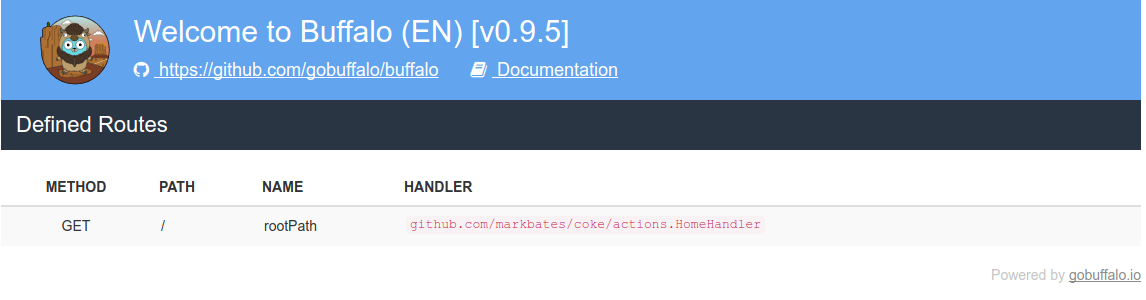
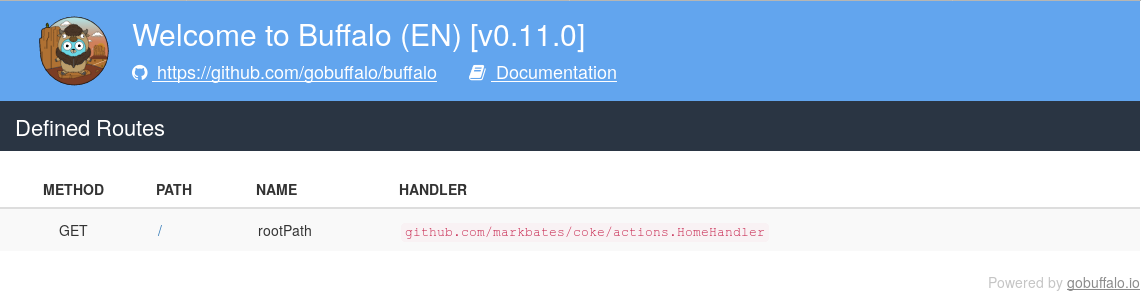
Some fixes, update Buffalo screenshots & traces to v0.11.0

Changed region(s): [[0.0, 0.0, 1.0, 0.5117], [0.0, 0.602, 1.0, 0.8127], [0.8589, 0.903, 1.0, 0.9933]]

diff --git a/templates/docs/overview.html b/templates/docs/overview.html
@@ -100,7 +100,7 @@ Use Buffalo at work? Ask your manager or marketing team if they’d help <a href
       Deep integration with <a href="https://github.com/markbates/pop" target="_blank">pop</a> provides a simple way to handle database and common related tasks.
     </p>
     <p>
-      Supported databases: MySQL/ MariaDB, PostgreSQL, SQLite.
+      Supported databases: MySQL/ MariaDB, PostgreSQL, CockroachDB, SQLite.
     </p>
   </div>
   <div class="feature">

diff --git a/templates/docs/overview.fr.html b/templates/docs/overview.fr.html
@@ -99,7 +99,7 @@
       Une intégration forte avec <a href="https://github.com/markbates/pop" target="_blank">pop</a> permet de gérer les bases de données simplement, ainsi que les tâches courantes associées.
     </p>
     <p>
-      Bases de données supportées&nbsp;: MySQL/ MariaDB, PostgreSQL, SQLite.
+      Bases de données supportées&nbsp;: MySQL/ MariaDB, PostgreSQL, CockroachDB, SQLite.
     </p>
   </div>
   <div class="feature">

diff --git a/assets/css/_theme.scss b/assets/css/_theme.scss
@@ -2859,11 +2859,16 @@ div.prism-show-language>div.prism-show-language-label {
   }
 }
 
-figure img {
-  max-width: 100%;
-  height: auto;
-  display: block;
-  margin: 0 auto
+figure
+{
+  margin: 1em 40px;
+  
+  img {
+    max-width: 100%;
+    height: auto;
+    display: block;
+    margin: 0 auto
+  }
 }
 
 figcaption {

diff --git a/actions/render.go b/actions/render.go
@@ -21,8 +21,11 @@ func init() {
 			"h1":    helpers.H1,
 			"title": helpers.SectionTitle,
 			"note":  helpers.Note,
-			"sinceVersion": func(version string) template.HTML {
-				return template.HTML(fmt.Sprintf(sinceVersion, version))
+			"sinceVersion": func(version string, help plush.HelperContext) (template.HTML, error) {
+				ctx := help.Context.New()
+				ctx.Set("version", version)
+				s, err := plush.Render(sinceVersion, ctx)
+				return template.HTML(s), err
 			},
 			"vimeo": func(code string) template.HTML {
 				return template.HTML(fmt.Sprintf(vimeo, code))
@@ -52,6 +55,6 @@ const vimeo = `<div class="video">
 <iframe src="https://player.vimeo.com/video/%s?portrait=0" width="640" height="360" frameborder="0" webkitallowfullscreen mozallowfullscreen allowfullscreen></iframe>
 </div>`
 
-const sinceVersion = `<span class="since-version">since <strong>v%s</strong></span>`
+const sinceVersion = `<span class="since-version"><%= raw(t("helpers.since", {"version": version})) %></span>`
 
 const githubRelease = `<a href="https://github.com/gobuffalo/buffalo/releases/tag/%s" target="_blank" rel="noopener noreferrer">releases/tag/%s</a>`

diff --git a/templates/docs/new-project/_new.md b/templates/docs/new-project/_new.md
@@ -2,46 +2,61 @@
 $ buffalo new coke
 Buffalo version <%= version %>
 
---> go get -u golang.org/x/tools/cmd/goimports
---> go get -u github.com/golang/dep/cmd/dep
---> go get -u github.com/motemen/gore
---> /Users/markbates/Dropbox/development/gocode/src/github.com/markbates/coke/README.md
---> /Users/markbates/Dropbox/development/gocode/src/github.com/markbates/coke/actions/actions_test.go
---> /Users/markbates/Dropbox/development/gocode/src/github.com/markbates/coke/actions/app.go
---> /Users/markbates/Dropbox/development/gocode/src/github.com/markbates/coke/actions/home.go
---> /Users/markbates/Dropbox/development/gocode/src/github.com/markbates/coke/actions/home_test.go
---> /Users/markbates/Dropbox/development/gocode/src/github.com/markbates/coke/actions/render.go
---> /Users/markbates/Dropbox/development/gocode/src/github.com/markbates/coke/.codeclimate.yml
---> /Users/markbates/Dropbox/development/gocode/src/github.com/markbates/coke/.gitignore
---> /Users/markbates/Dropbox/development/gocode/src/github.com/markbates/coke/grifts/init.go
---> /Users/markbates/Dropbox/development/gocode/src/github.com/markbates/coke/locales/all.en-us.yaml
---> /Users/markbates/Dropbox/development/gocode/src/github.com/markbates/coke/main.go
---> /Users/markbates/Dropbox/development/gocode/src/github.com/markbates/coke/templates/_flash.html
---> /Users/markbates/Dropbox/development/gocode/src/github.com/markbates/coke/templates/application.html
---> /Users/markbates/Dropbox/development/gocode/src/github.com/markbates/coke/templates/index.html
---> /Users/markbates/Dropbox/development/gocode/src/github.com/markbates/coke/.buffalo.dev.yml
---> /Users/markbates/Dropbox/development/gocode/src/github.com/markbates/coke/assets/images/logo.svg
---> /Users/markbates/Dropbox/development/gocode/src/github.com/markbates/coke/assets/css/application.scss
---> /Users/markbates/Dropbox/development/gocode/src/github.com/markbates/coke/assets/js/application.js
---> /Users/markbates/Dropbox/development/gocode/src/github.com/markbates/coke/.babelrc
---> /Users/markbates/Dropbox/development/gocode/src/github.com/markbates/coke/public/assets/.gitignore
---> /Users/markbates/Dropbox/development/gocode/src/github.com/markbates/coke/webpack.config.js
---> yarn init --no-progress -y
---> /Users/markbates/Dropbox/development/gocode/src/github.com/markbates/coke/models/models.go
---> /Users/markbates/Dropbox/development/gocode/src/github.com/markbates/coke/models/models_test.go
---> /Users/markbates/Dropbox/development/gocode/src/github.com/markbates/coke/grifts/db.go
---> go get github.com/markbates/pop/...
---> database.yml
---> /Users/markbates/Dropbox/development/gocode/src/github.com/markbates/coke/Dockerfile
---> /Users/markbates/Dropbox/development/gocode/src/github.com/markbates/coke/.dockerignore
---> go get -t ./...
---> git init
---> git add .
---> git commit -m Initial Commit
-Congratulations! Your application, coke, has been successfully built!
+      create  .buffalo.dev.yml
+      create  assets/images/logo.svg
+      create  assets/css/application.scss
+      create  assets/images/favicon.ico
+      create  assets/js/application.js
+      create  .babelrc
+      create  package.json
+      create  public/assets/.keep
+      create  webpack.config.js
+         run  yarn install --no-progress --save
+yarn install v0.27.5
+info No lockfile found.
+[1/4] Resolving packages...
+[2/4] Fetching packages...
+[3/4] Linking dependencies...
+[4/4] Building fresh packages...
+success Saved lockfile.
+Done in 11.71s.
+      create  models/models.go
+      create  models/models_test.go
+      create  grifts/db.go
+         run  go get github.com/markbates/pop/...
+      create  ./database.yml
+         run  goimports -w coke/grifts/db.go coke/models/models.go coke/models/models_test.go
+      create  Dockerfile
+      create  .dockerignore
+         run  go get -u golang.org/x/tools/cmd/goimports
+      create  README.md
+      create  actions/actions_test.go
+      create  actions/app.go
+      create  actions/home.go
+      create  actions/home_test.go
+      create  actions/render.go
+      create  .codeclimate.yml
+      create  .env
+      create  grifts/init.go
+      create  inflections.json
+      create  locales/all.en-us.yaml
+      create  main.go
+      create  public/robots.txt
+      create  templates/_flash.html
+      create  templates/application.html
+      create  templates/index.html
+         run  go get -t ./...
+         run  goimports -w actions/actions_test.go actions/app.go actions/home.go actions/home_test.go actions/render.go grifts/db.go grifts/init.go main.go models/models.go models/models_test.go
+      create  .gitignore
+         run  git init
+Initialized empty Git repository in /Users/markbates/Dropbox/development/gocode/src/github.com/markbates/coke/.git/
+         run  git add .
+         run  git commit -q -m Initial Commit
+INFO[0055] Congratulations! Your application, coke, has been successfully built!
 
-You can find your new application at:
-/Users/markbates/Dropbox/development/gocode/src/github.com/markbates/coke
-
+ 
+INFO[0055] You can find your new application at:
+/Users/markbates/Dropbox/development/gocode/src/github.com/markbates/coke 
+INFO[0055] 
 Please read the README.md file in your new application for next steps on running your application.
 ```

diff --git a/templates/docs/db.md b/templates/docs/db.md
@@ -4,7 +4,7 @@ Buffalo uses [github.com/markbates/pop](https://github.com/markbates/pop) as its
 
 <%= title("Getting Started") %>
 
-Buffalo supports [PostgreSQL](https://www.postgresql.org/) (default), [MySQL](https://www.mysql.com/), and [SQLite3](https://sqlite.org/). When you generate a new Buffalo application you can change this with the `--db-type` flag. It is also possible to skip generation of all database components with the `--skip-pop` flag.
+Buffalo supports [PostgreSQL](https://www.postgresql.org/) (default), [CockroachDB](https://www.cockroachlabs.com/), [MySQL](https://www.mysql.com/), and [SQLite3](https://sqlite.org/). When you generate a new Buffalo application you can change this with the `--db-type` flag. It is also possible to skip generation of all database components with the `--skip-pop` flag.
 
 <%= title("database.yml", {name: "configuring"}) %>
 

diff --git a/templates/docs/new-project/_help.md b/templates/docs/new-project/_help.md
@@ -9,7 +9,7 @@ Flags:
       --api                  skip all front-end code and configure for an API server
       --bootstrap int        specify version for Bootstrap [3, 4] (default 3)
       --ci-provider string   specify the type of ci file you would like buffalo to generate [none, travis, gitlab-ci] (default "none")
-      --db-type string       specify the type of database you want to use [postgres, mysql, sqlite3] (default "postgres")
+      --db-type string       specify the type of database you want to use [postgres, mysql, sqlite3, cockroach] (default "postgres")
       --docker string        specify the type of Docker file to generate [none, multi, standard] (default "multi")
   -f, --force                delete and remake if the app already exists
   -h, --help                 help for new

diff --git a/templates/docs/directory-structure.fr.md b/templates/docs/directory-structure.fr.md
@@ -94,7 +94,7 @@ Ce dossier est utilisé par la commande `buffalo dev` pour reconstruire votre pr
 ### database.yml
 
 <%= note() { %>
-Ce répertoire est facultatif. Si vous n'avez pas besoin d'utiliser une base de données, vous pouvez le supp
+Ce répertoire est facultatif. Si vous n'avez pas besoin d'utiliser une base de données, vous pouvez le supprimer.
 <% } %>
 
 Ce fichier contient la configuration des bases de données utilisées par [pop/soda](https://github.com/markbates/pop).
